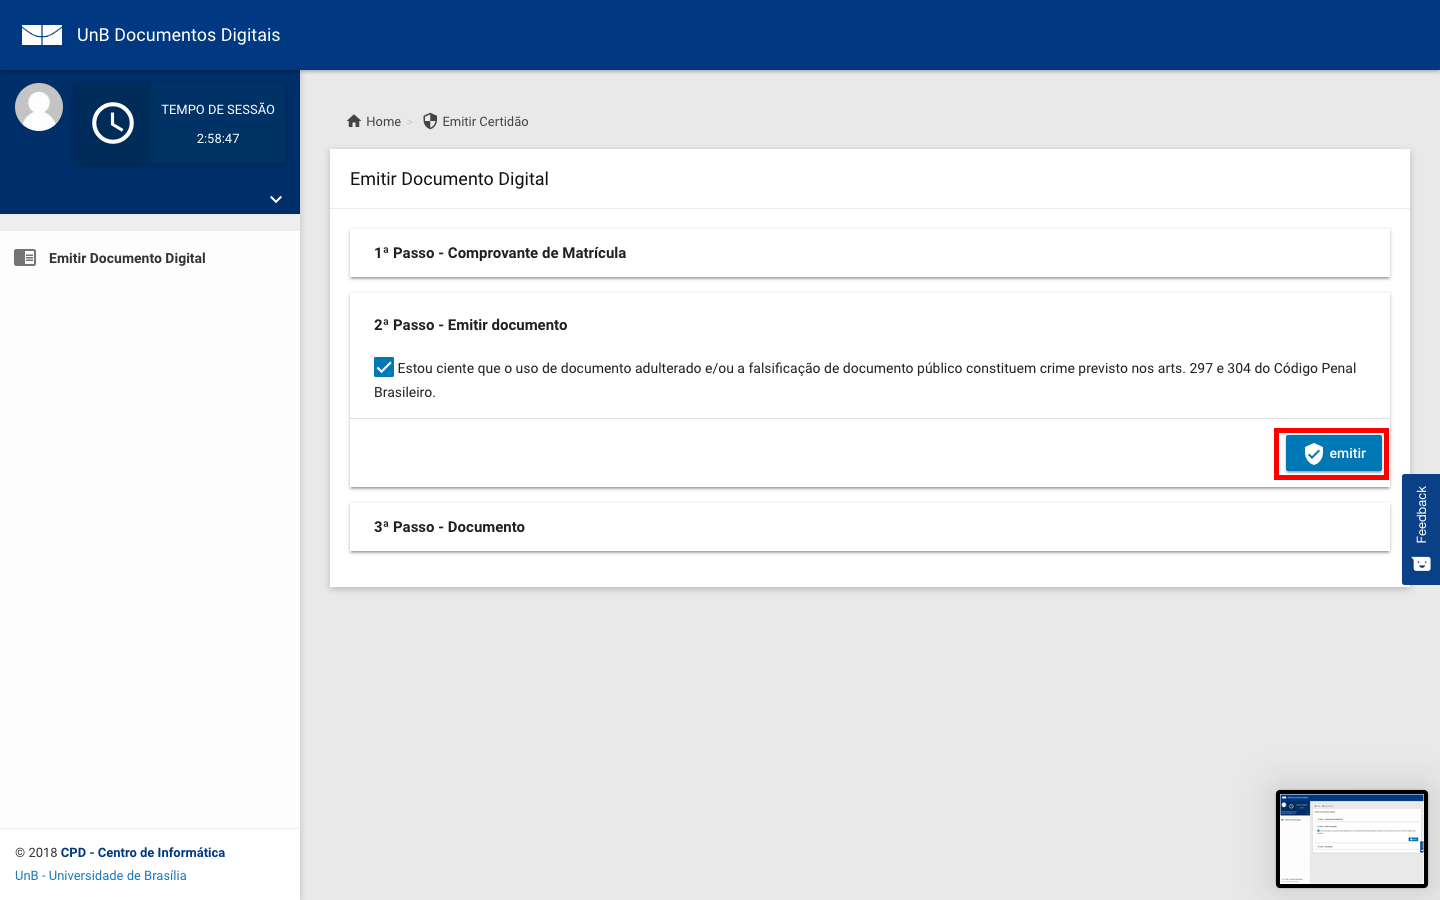
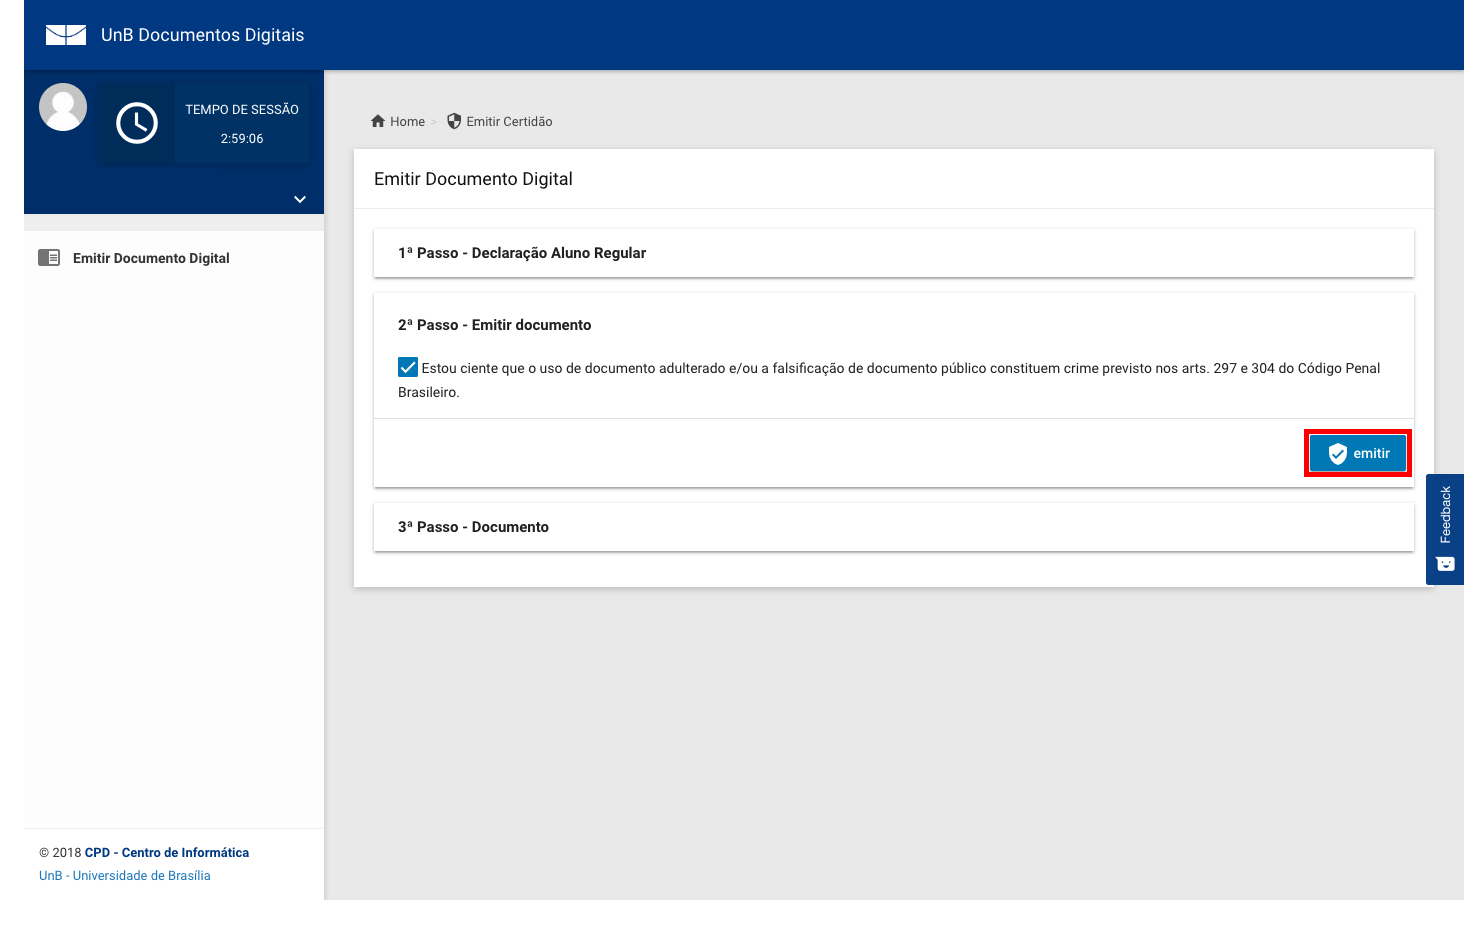
Refactors tutorial flood

Changed region(s): [[0.0, 0.0, 1.0, 0.6533], [0.8438, 0.8711, 1.0, 1.0], [0.0, 0.9022, 0.2188, 1.0]]

diff --git a/rasa/actions/documents/regular_proof.py b/rasa/actions/documents/regular_proof.py
@@ -6,6 +6,7 @@ UNB_URL = f'https://servicos.unb.br/dados/{DOC_1}{DOC_2}'
 GIT_URL = 'https://raw.githubusercontent.com/fga-eps-mds/2018.2-Lino/'
 IMGS_PATH = 'Issue_202-RegularStudentStatementFlow/rasa/images/RegularProof/'
 
+
 class ActionRegularProof(Action):
     def name(self):
         return "action_regular_proof"
@@ -23,38 +24,31 @@ class ActionRegularProof(Action):
 
         steps = []
 
+        # Step 1
+        step_1_1 = 'Faça login no site'
+        step_1_2 = 'selecione Declaração de aluno regular'
         step_1 = {
-            'text': 'Passo 1: Faça login no site.',
-            'image': f'{GIT_URL}{IMGS_PATH}step1.png'
+            'text': f'Passo 1: {step_1_1} e {step_1_2}',
+            'image': f'{GIT_URL}{IMGS_PATH}step2.png'
             }
         steps.append(step_1)
 
+        # Step 2
+        step_2_1 = 'Prove que você está ciente do que está fazendo'
+        step_2_2 = 'clique em emitir'
         step_2 = {
-            'text': 'Passo 2: Selecione Declaração de aluno regular',
-            'image': f'{GIT_URL}{IMGS_PATH}step2.png'
+            'text': f'Passo 2: {step_2_1} e {step_2_2}',
+            'image': f'{GIT_URL}{IMGS_PATH}step4.png'
         }
         steps.append(step_2)
 
+        # Step 3
         step_3 = {
-            'text': 'Passo 3: Prove que você está ciente do que está fazendo',
-            'image': f'{GIT_URL}{IMGS_PATH}step3.png'
+            'text': 'Passo 3: Agora é so baixar'
         }
         steps.append(step_3)
-
-        step_4 = {
-            'text': 'Passo 4: Clique em emitir',
-            'image': f'{GIT_URL}{IMGS_PATH}step4.png'
-        }
-        steps.append(step_4)
-
-        step_5 = {
-            'text': 'Passo 5: Agora é so baixar',
-            'image': f'{GIT_URL}{IMGS_PATH}step5.png'
-        }
-        steps.append(step_5)
 
         for step in steps:
             dispatcher.utter_response(step)
 
-        
         return []
